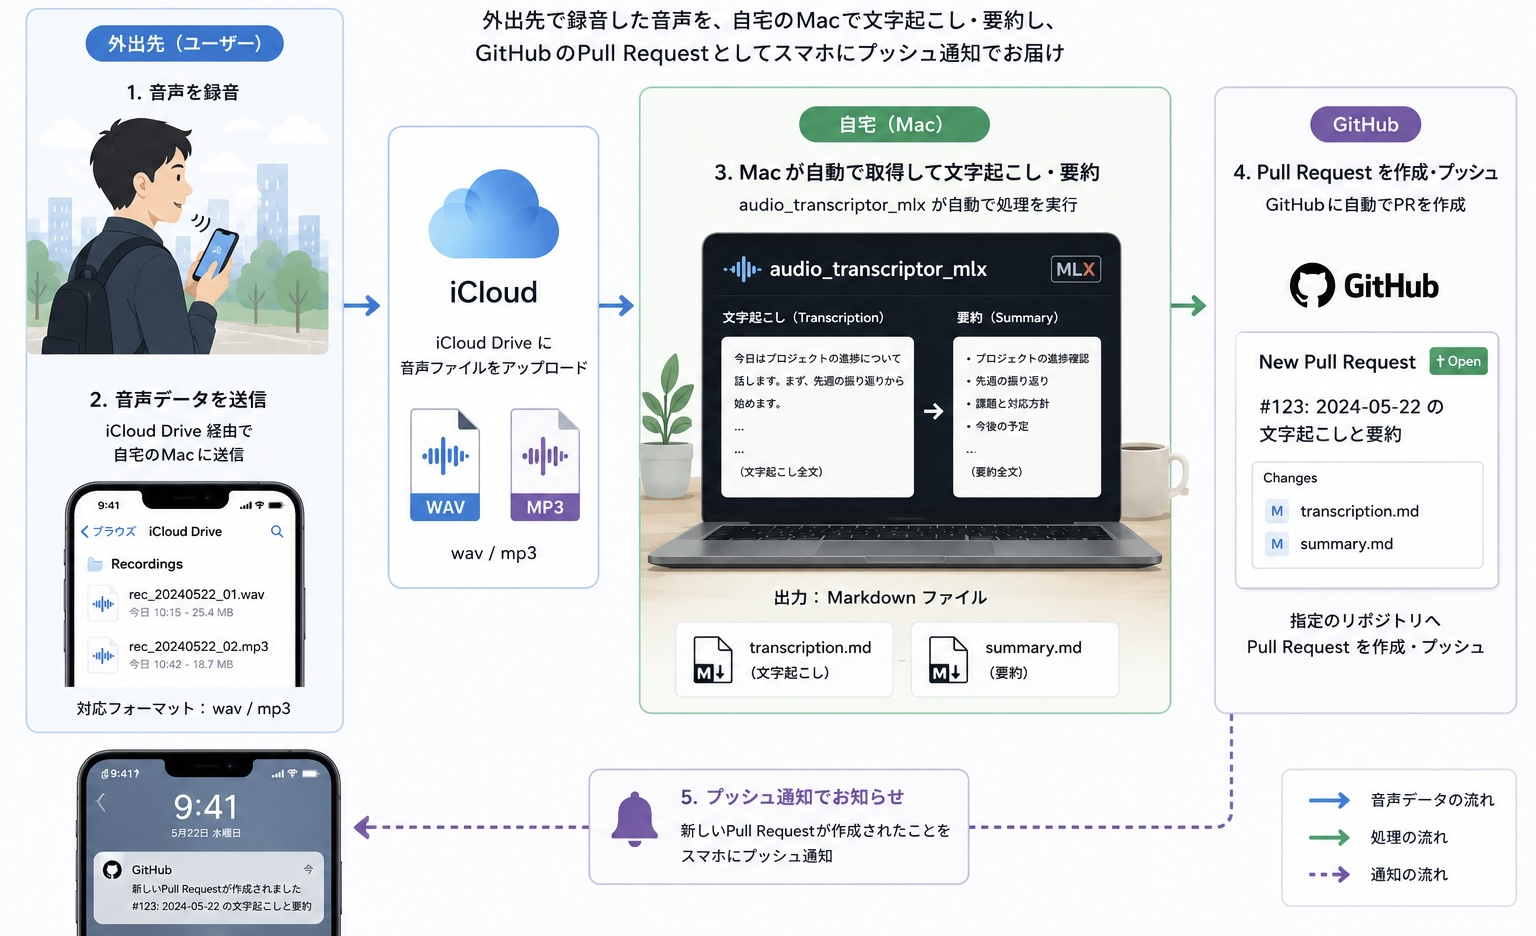
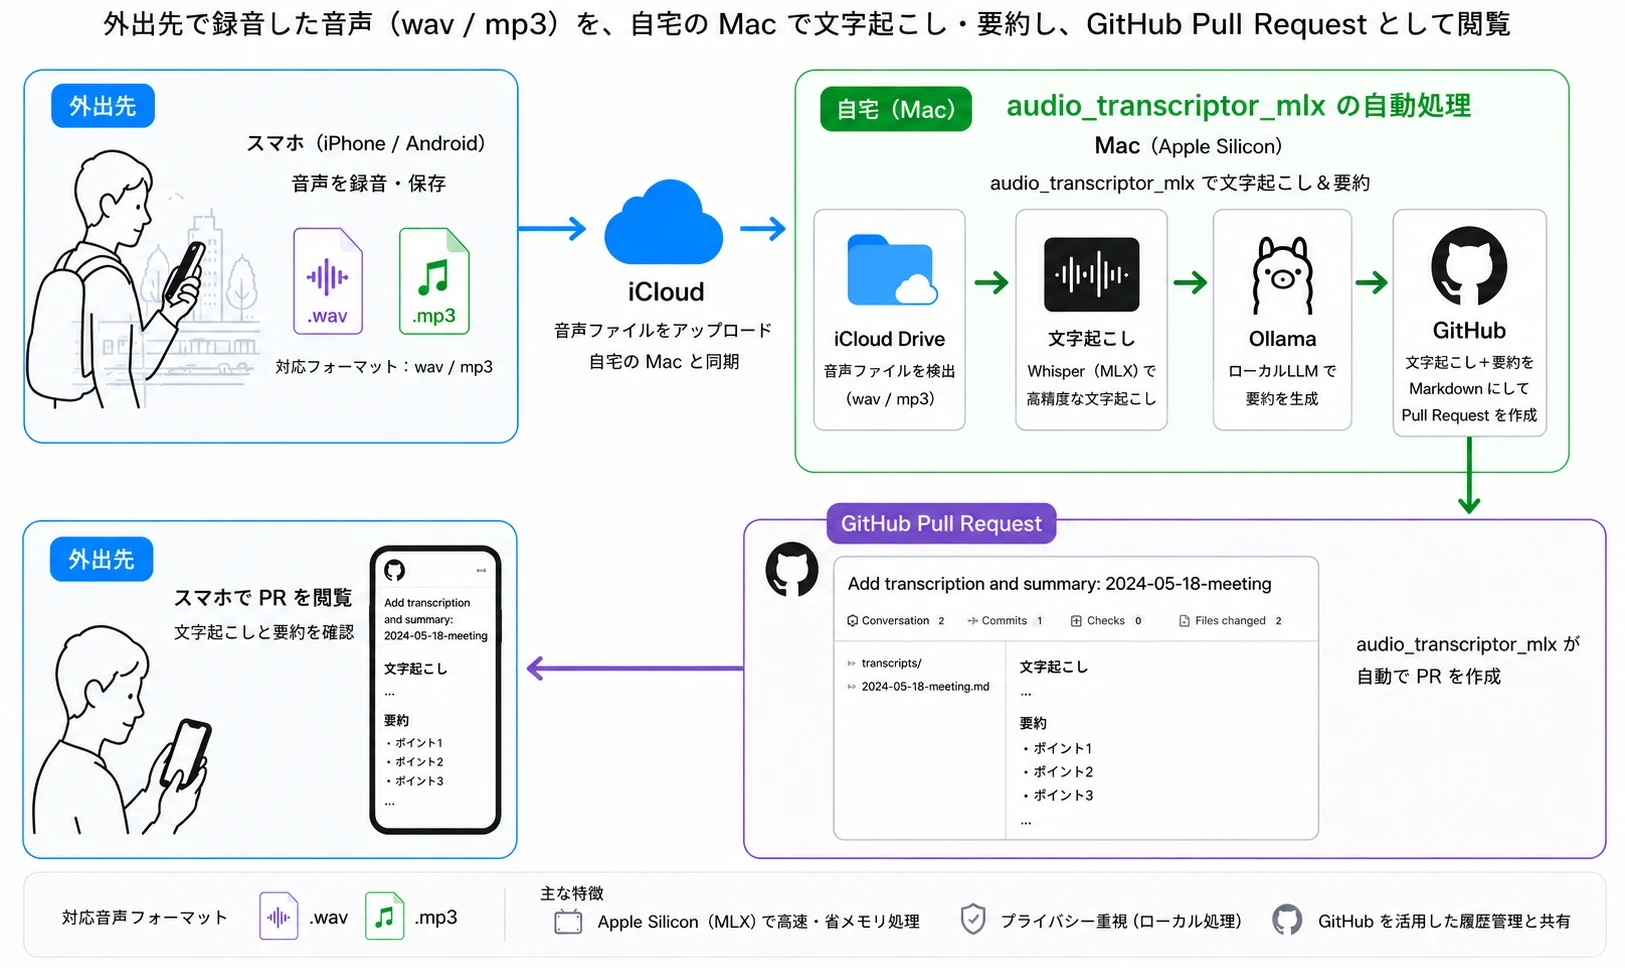
docs: PR のプッシュ通知という誤った記述を撤回し、フロー図を差し替え (#19)

diff --git a/README.md b/README.md
@@ -1,6 +1,6 @@
 # audio_transcriptor_mlx
 
-![外出先で録音した音声を iCloud Drive 経由で自宅の Mac に送り、自動で文字起こし・要約して GitHub の Pull Request を作成するまでの流れ](docs/images/icloud-auto-flow.jpg)
+![外出先で録音した音声を iCloud Drive 経由で自宅の Mac に送り、自動で文字起こし・要約して GitHub の Pull Request を作成し、出先のスマホからその PR を読むまでの流れ](docs/images/icloud-auto-flow.jpg)
 
 macOS Apple Silicon 上で動作する、ローカル音声文字起こしツール。  
 `wav` / `mp3` を `mlx-whisper` で文字起こしし、同フォルダに Markdown ファイルを保存する。文字起こしから議事録生成まで、すべてローカルで完結する。
@@ -9,16 +9,16 @@ macOS Apple Silicon 上で動作する、ローカル音声文字起こしツー
 
 ## 主な使い方: iCloud フォルダの自動監視
 
-外出先で録音した音声を iCloud Drive に入れておくと、自宅の Mac が自動で取得して文字起こし・議事録生成し、指定した Git リポジトリへ Pull Request を作成する（冒頭の図）。GitHub アプリで当該リポジトリの通知を受け取る設定にしていれば、PR 作成の通知がスマホに届く。
+外出先で録音した音声を iCloud Drive に入れておくと、自宅の Mac が自動で取得して文字起こし・議事録生成し、指定した Git リポジトリへ Pull Request を作成する（冒頭の図）。出先ではその PR を開いて文字起こしと議事録を読む。
 
-この流れは 3 つの機能の組み合わせで動く。
+図の Mac 上の 4 段階は、次の機能に対応する。
 
 | 図の段階 | 使う機能 | 設定 |
 |---|---|---|
-| 3. Mac が自動で取得して文字起こし | [監視フォルダの自動処理](#使い方-b-監視フォルダの自動処理launchd) | `watch_dir` を iCloud Drive 配下に設定 |
-| 3. 要約（議事録）を生成 | [議事録生成（Ollama 連携）](#議事録生成ollama-連携) | `[minutes].enabled = true`（既定） |
-| 4. Pull Request を作成・プッシュ | [任意 Git リポジトリへの自動 PR](#任意-git-リポジトリへの自動-pr-auto_pr) | `[auto_pr].enabled = true`（既定 off） |
-| 5. スマホへの通知 | GitHub アプリの PR 通知（本ツールの機能ではない） | — |
+| iCloud Drive の音声ファイルを検出 | [監視フォルダの自動処理](#使い方-b-監視フォルダの自動処理launchd) | `watch_dir` を iCloud Drive 配下に設定 |
+| Whisper（MLX）で文字起こし | 本体の文字起こし | `model` / `language` |
+| Ollama のローカル LLM で要約を生成 | [議事録生成（Ollama 連携）](#議事録生成ollama-連携) | `[minutes].enabled = true`（既定） |
+| Markdown にして Pull Request を作成 | [任意 Git リポジトリへの自動 PR](#任意-git-リポジトリへの自動-pr-auto_pr) | `[auto_pr].enabled = true`（既定 off） |
 
 > **元の音源は既定でゴミ箱へ移動される**（自動 PR が無効、または PR 作成に成功した場合）。iCloud Drive を監視フォルダにする場合、削除は同期されて iPhone 側からも消える。音源を残したい場合は `config.toml` で `trash_source_after_success = false` を設定する。
 
